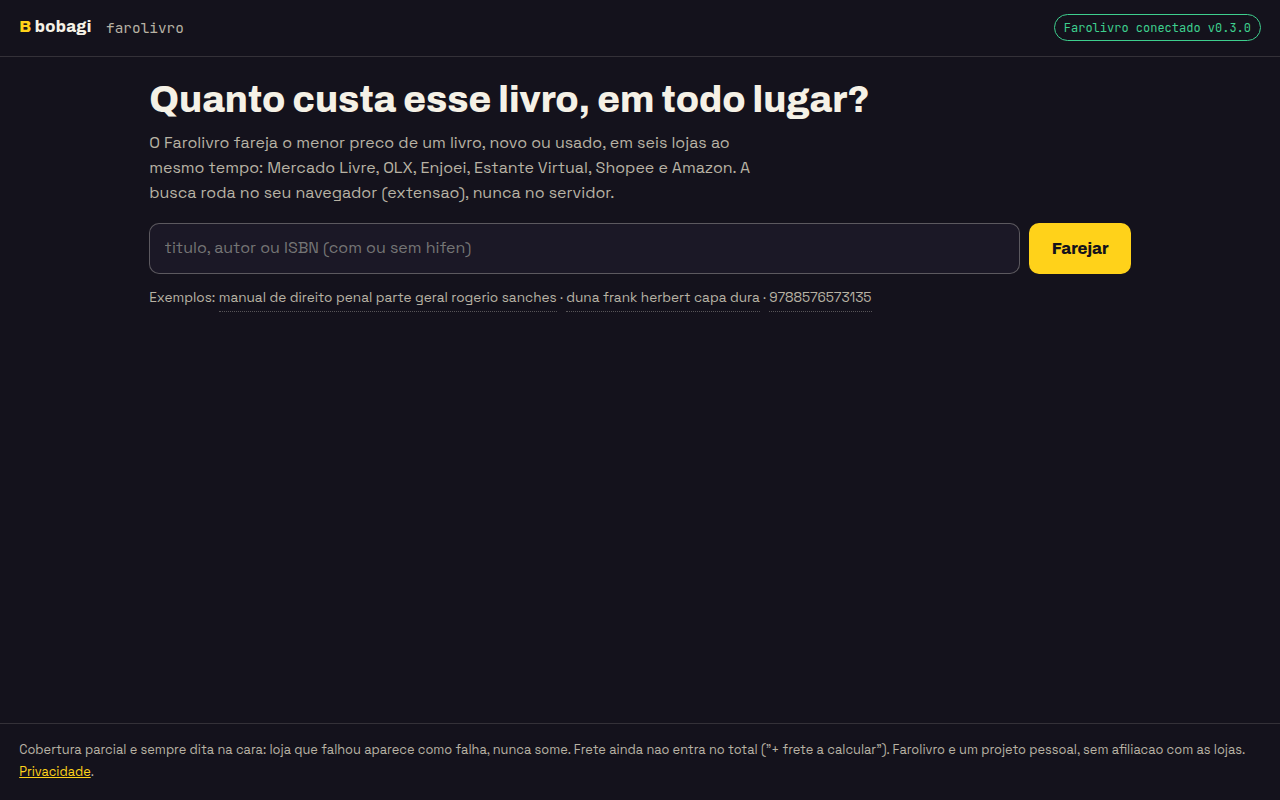
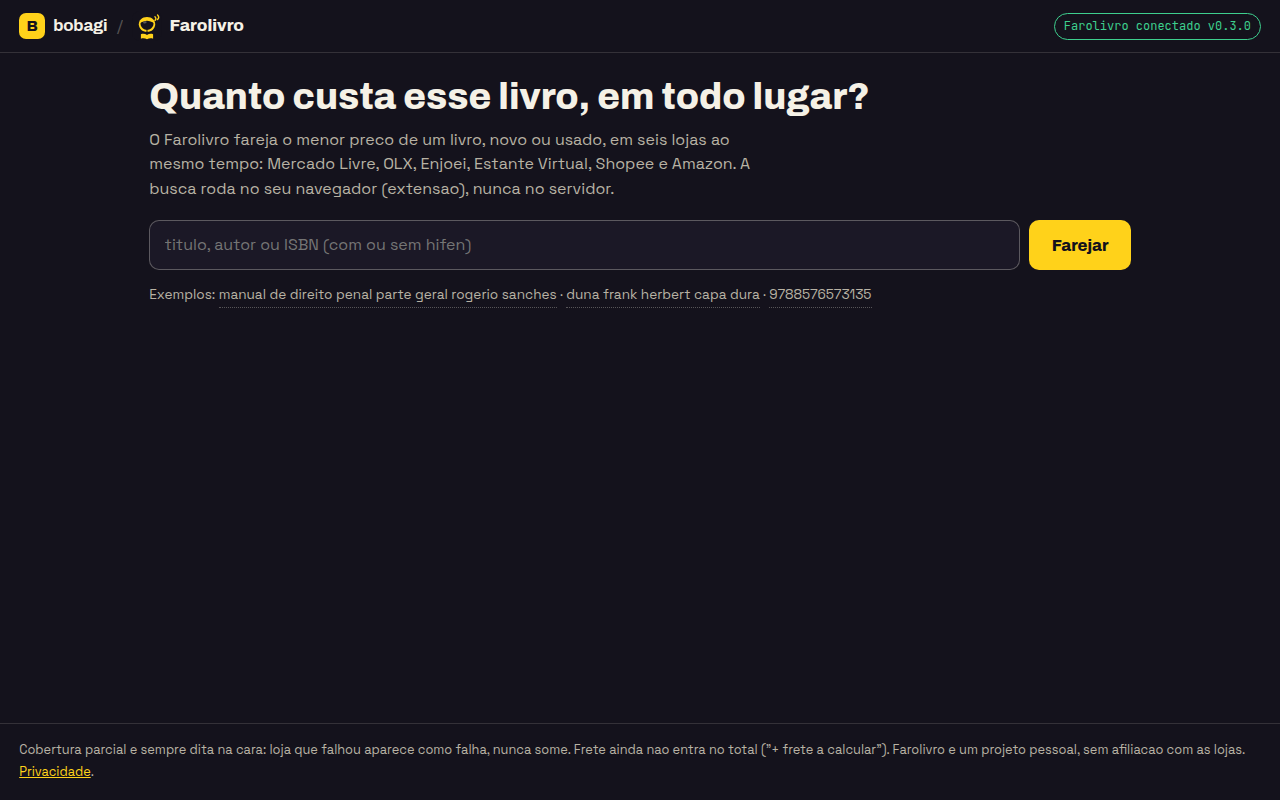
fix(header): marca no padrao bobagi.space (tile B) + icone do focinho visivel no header
Antes: a marca era uma letra "B" amarela solta colada em "bobagi" (lia como
"Bbobagi", fora do padrao do box) e o icone do farejador so existia no favicon,
nunca na pagina. Agora o header segue o mesmo componente dos sub-apps do box
(herowars/warframe): tile amarelo arredondado com "B" + wordmark "bobagi"
linkando pro portfolio, separador, e o FOCINHO (snout SVG inline) + "Farolivro"
como marca do app. Aplicado na home e na privacidade. Screenshots do kit CWS
regenerados. frontend-review: header conferido de perto em desktop+mobile,
0 overflow, tap targets ok.

diff --git a/backend/static/index.html b/backend/static/index.html
@@ -12,8 +12,25 @@
 </head>
 <body>
 <header class="top">
-  <a class="brand" href="https://bobagi.space"><span class="brand-b">B</span> bobagi</a>
-  <span class="app-name">farolivro</span>
+  <a class="mark" href="https://bobagi.space" title="Portfolio Bobagi">
+    <span class="mark-b">B</span><span class="mark-t">bobagi</span>
+  </a>
+  <span class="sep" aria-hidden="true">/</span>
+  <a class="appmark" href="/">
+    <svg class="snout-mark" viewBox="0 0 128 128" width="30" height="30" aria-hidden="true">
+      <rect x="2" y="2" width="124" height="124" rx="28" fill="#14121c"/>
+      <g fill="none" stroke="#ffd21a" stroke-width="6" stroke-linecap="round"><path d="M98 40 q8 -7 0 -15"/><path d="M109 36 q10 -9 0 -19"/></g>
+      <path d="M64 26c-22 0-35 14-35 31c0 18 15 33 35 33c20 0 35-15 35-33c0-17-13-31-35-31z" fill="#ffd21a"/>
+      <path d="M40 48q24-13 48 0q6 3 3 13q-6 17-27 20q-21-3-27-20q-3-10 3-13z" fill="#14121c"/>
+      <ellipse cx="55" cy="49" rx="8" ry="4.5" fill="#fff" opacity="0.28" transform="rotate(-12 55 49)"/>
+      <path d="M64 84 L64 92" stroke="#14121c" stroke-width="5" stroke-linecap="round"/>
+      <path d="M64 92 q-12 8 -22 1" fill="none" stroke="#14121c" stroke-width="5" stroke-linecap="round"/>
+      <path d="M64 92 q12 8 22 1" fill="none" stroke="#14121c" stroke-width="5" stroke-linecap="round"/>
+      <path d="M64 102c-7-5-18-6-26-3l0 19c8-3 19-2 26 3z" fill="#ffd21a"/>
+      <path d="M64 102c7-5 18-6 26-3l0 19c-8-3-19-2-26 3z" fill="#ffd21a"/>
+    </svg>
+    <span class="appmark-t">Farolivro</span>
+  </a>
   <span id="ext-chip" class="chip chip-off">Farolivro: nao instalado</span>
 </header>
 

diff --git a/backend/static/privacidade.html b/backend/static/privacidade.html
@@ -12,8 +12,25 @@
 </head>
 <body>
 <header class="top">
-  <a class="brand" href="https://bobagi.space"><span class="brand-b">B</span> bobagi</a>
-  <span class="app-name">farolivro · privacidade</span>
+  <a class="mark" href="https://bobagi.space" title="Portfolio Bobagi">
+    <span class="mark-b">B</span><span class="mark-t">bobagi</span>
+  </a>
+  <span class="sep" aria-hidden="true">/</span>
+  <a class="appmark" href="/">
+    <svg class="snout-mark" viewBox="0 0 128 128" width="30" height="30" aria-hidden="true">
+      <rect x="2" y="2" width="124" height="124" rx="28" fill="#14121c"/>
+      <g fill="none" stroke="#ffd21a" stroke-width="6" stroke-linecap="round"><path d="M98 40 q8 -7 0 -15"/><path d="M109 36 q10 -9 0 -19"/></g>
+      <path d="M64 26c-22 0-35 14-35 31c0 18 15 33 35 33c20 0 35-15 35-33c0-17-13-31-35-31z" fill="#ffd21a"/>
+      <path d="M40 48q24-13 48 0q6 3 3 13q-6 17-27 20q-21-3-27-20q-3-10 3-13z" fill="#14121c"/>
+      <ellipse cx="55" cy="49" rx="8" ry="4.5" fill="#fff" opacity="0.28" transform="rotate(-12 55 49)"/>
+      <path d="M64 84 L64 92" stroke="#14121c" stroke-width="5" stroke-linecap="round"/>
+      <path d="M64 92 q-12 8 -22 1" fill="none" stroke="#14121c" stroke-width="5" stroke-linecap="round"/>
+      <path d="M64 92 q12 8 22 1" fill="none" stroke="#14121c" stroke-width="5" stroke-linecap="round"/>
+      <path d="M64 102c-7-5-18-6-26-3l0 19c8-3 19-2 26 3z" fill="#ffd21a"/>
+      <path d="M64 102c7-5 18-6 26-3l0 19c-8-3-19-2-26 3z" fill="#ffd21a"/>
+    </svg>
+    <span class="appmark-t">Farolivro</span><span class="fine">· privacidade</span>
+  </a>
 </header>
 
 <main class="wrap">

diff --git a/backend/static/style.css b/backend/static/style.css
@@ -16,10 +16,15 @@
 html{color-scheme:dark}
 body{background:var(--bg);color:var(--text);font-family:var(--font-body);line-height:1.55;min-height:100vh;display:flex;flex-direction:column}
 a{color:var(--yellow)}
-.top{display:flex;align-items:center;gap:.9rem;padding:.9rem 1.2rem;border-bottom:1px solid var(--line)}
-.brand{font-family:var(--font-display);font-weight:800;text-decoration:none;color:var(--text);letter-spacing:.02em}
-.brand-b{color:var(--yellow)}
-.app-name{font-family:var(--font-mono);color:var(--muted);font-size:.9rem}
+.top{display:flex;align-items:center;gap:.6rem;padding:.7rem 1.2rem;border-bottom:1px solid var(--line);flex-wrap:wrap}
+.mark{display:inline-flex;align-items:center;gap:.5rem;text-decoration:none;color:var(--text)}
+.mark-b{width:26px;height:26px;display:grid;place-items:center;border-radius:7px;background:var(--yellow);color:#14121c;font-family:var(--font-display);font-weight:800;font-size:.95rem;line-height:1}
+.mark-t{font-family:var(--font-display);font-weight:700;font-size:1.05rem;letter-spacing:-.01em}
+.sep{color:var(--muted);opacity:.4}
+.appmark{display:inline-flex;align-items:center;gap:.45rem;text-decoration:none;color:var(--text)}
+.snout-mark{display:block;flex:0 0 auto}
+.appmark-t{font-family:var(--font-display);font-weight:800;font-size:1.05rem}
+.appmark .fine{font-family:var(--font-mono);color:var(--muted);font-size:.8rem;font-weight:400}
 #ext-chip{margin-left:auto}
 .chip{font-family:var(--font-mono);font-size:.75rem;padding:.2rem .55rem;border:1px solid var(--line-strong);border-radius:999px;color:var(--muted)}
 .chip-on{color:var(--ok);border-color:var(--ok)}
